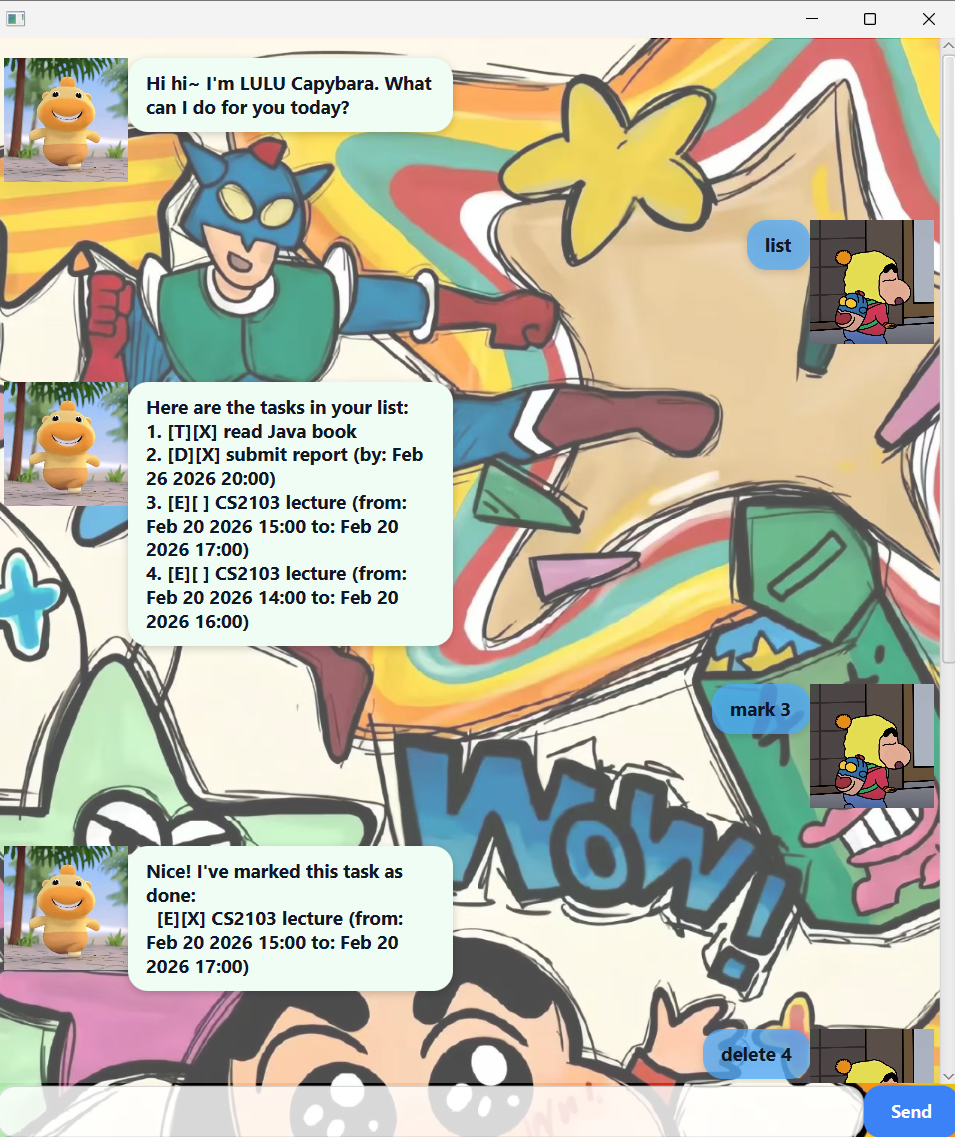
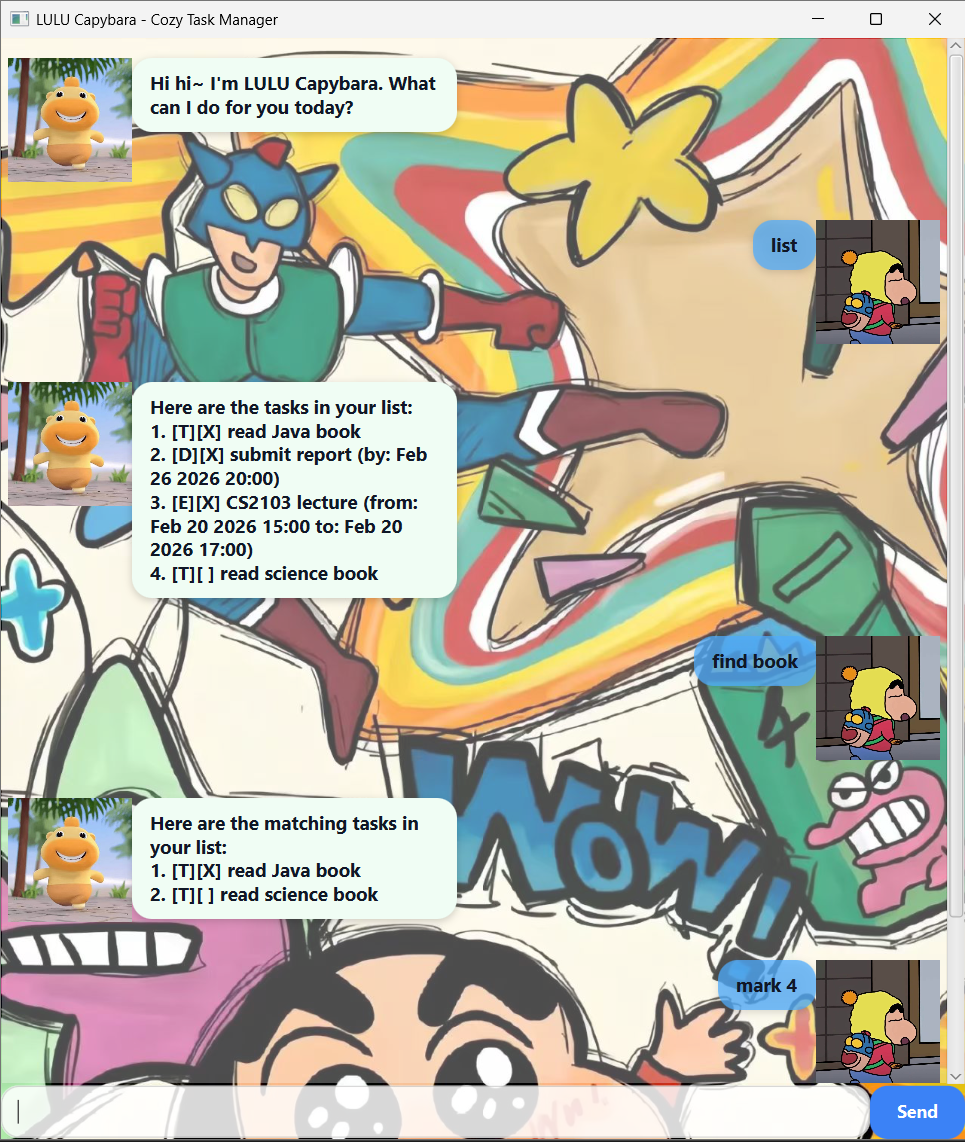
Add Product title

diff --git a/src/main/java/lulu/Main.java b/src/main/java/lulu/Main.java
@@ -23,6 +23,7 @@ public class Main extends Application {
             Scene scene = new Scene(ap);
             scene.getStylesheets().add(Main.class.getResource("/view/Style.css").toExternalForm());
 
+            stage.setTitle("LULU Capybara - Cozy Task Manager");
             stage.setScene(scene);
             fxmlLoader.<MainWindow>getController().setLulu(lulu); // inject the Lulu instance
 
